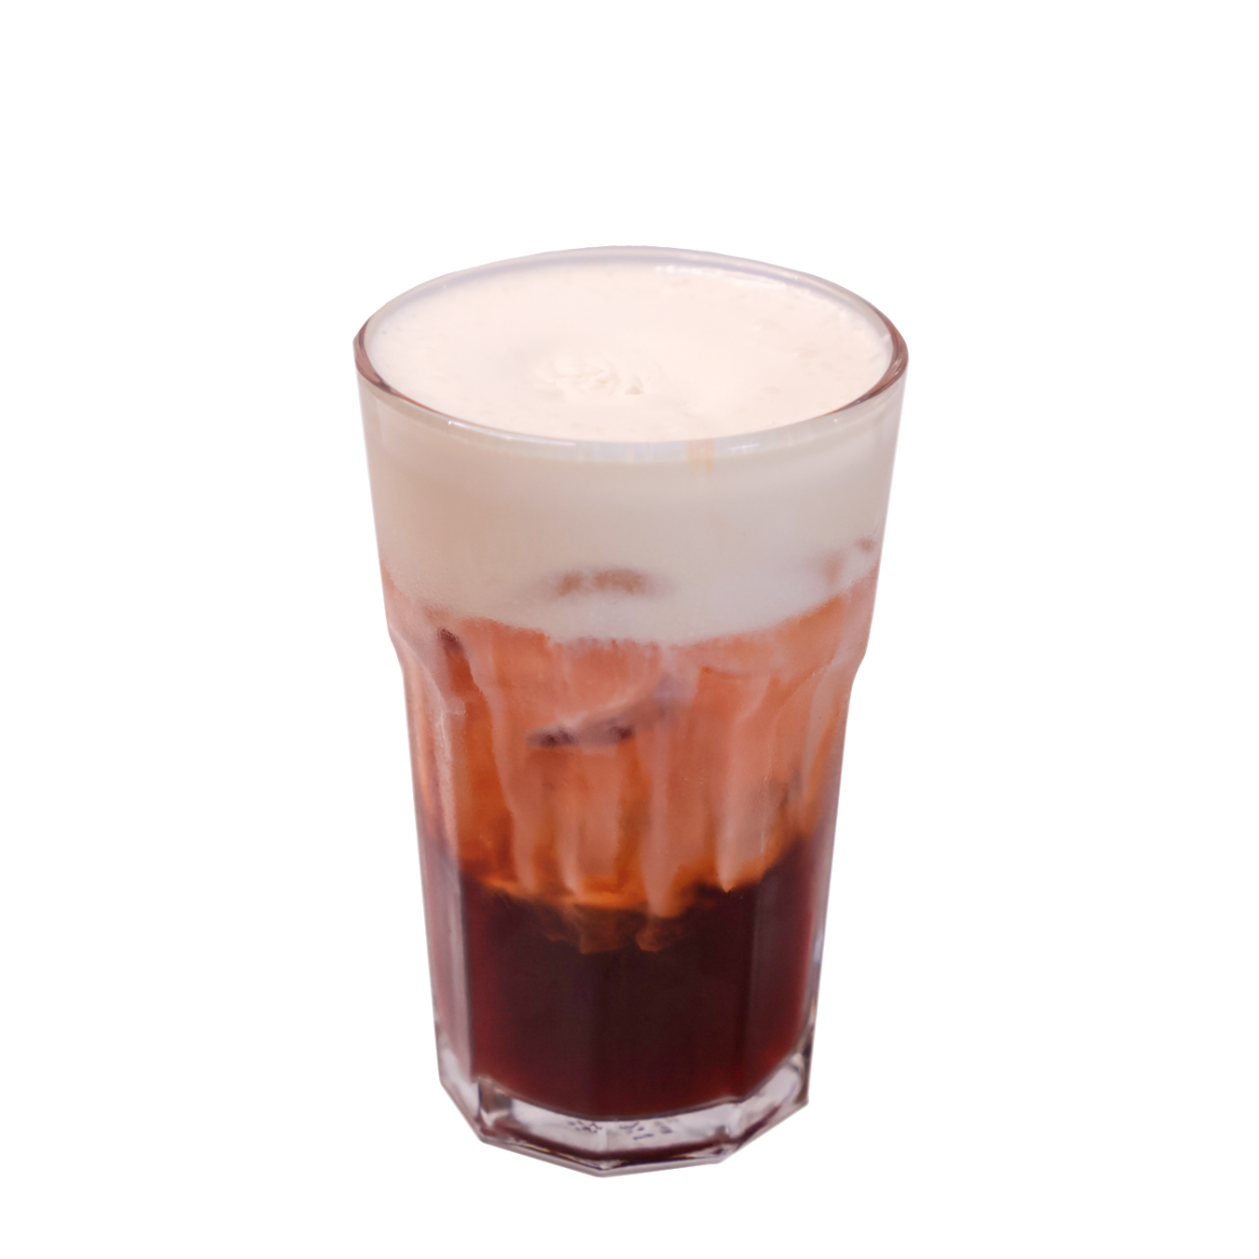
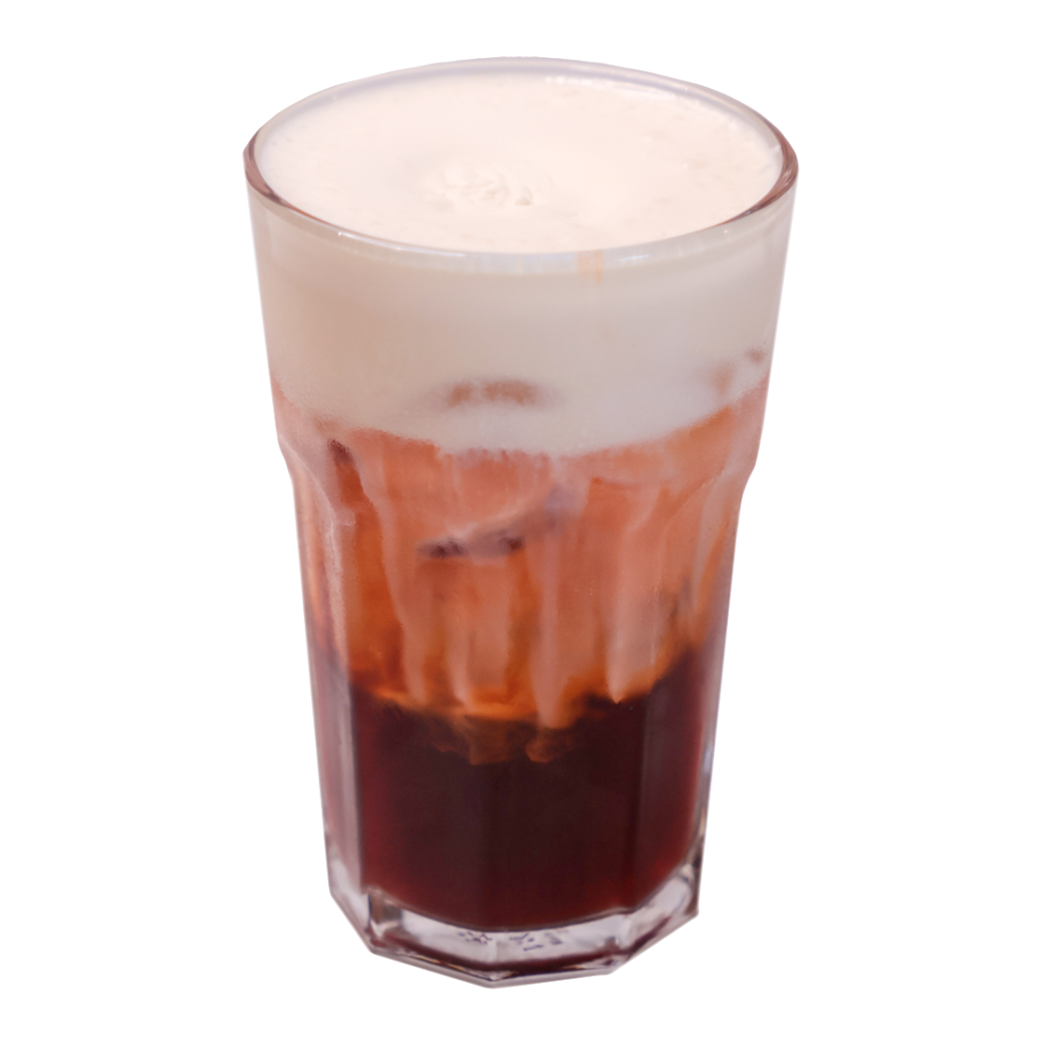
added drink images and shorten about us

Changed region(s): [[0.2133, 0.0305, 0.7619, 0.9448]]

diff --git a/src/app/menu/page.tsx b/src/app/menu/page.tsx
@@ -12,37 +12,37 @@ const menuSections = {
         name: 'đen đá [den-da]',
         description: 'classic black iced coffee',
         price: '$5.50',
-        image: 'https://static.vecteezy.com/system/resources/previews/041/924/414/non_2x/ai-generated-latte-in-coffee-cup-isolated-on-transparent-background-free-png.png',
+        image: 'images/denda.png',
       },
       {
         name: 'sữa đá [su-da]',
         description: 'classic Vietnamese iced coffee',
         price: '$6.00',
-        image: 'https://static.vecteezy.com/system/resources/previews/041/924/414/non_2x/ai-generated-latte-in-coffee-cup-isolated-on-transparent-background-free-png.png',
+        image: 'images/caphesuada.png',
       },
       {
         name: 'xíu [xiu]',
         description: 'mini sữa đá, Vietnamese "café latte"',
         price: '$6.00',
-        image: 'https://static.vecteezy.com/system/resources/previews/041/924/414/non_2x/ai-generated-latte-in-coffee-cup-isolated-on-transparent-background-free-png.png',
+        image: 'images/xiuvietnameselatte.png',
       },
       {
         name: 'muối [mui]',
         description: 'sea salt foam sữa đá',
         price: '$6.50',
-        image: 'https://static.vecteezy.com/system/resources/previews/041/924/414/non_2x/ai-generated-latte-in-coffee-cup-isolated-on-transparent-background-free-png.png',
+        image: 'images/duacoconutcreamfoamcoffee.png',
       },
       {
         name: 'khèe [kheeee]',
         description: 'crème brulee foam sữa đá',
         price: '$6.50',
-        image: 'https://static.vecteezy.com/system/resources/previews/041/924/414/non_2x/ai-generated-latte-in-coffee-cup-isolated-on-transparent-background-free-png.png',
+        image: 'images/kheeecremebrulevietcoffee.png',
       },
       {
         name: 'trứng [trung]',
         description: 'egg foam sữa đá',
         price: '$6.90',
-        image: 'https://static.vecteezy.com/system/resources/previews/041/924/414/non_2x/ai-generated-latte-in-coffee-cup-isolated-on-transparent-background-free-png.png',
+        image: 'images/trungeggcoffee.png',
       },
     ],
 
@@ -96,7 +96,7 @@ const menuSections = {
         name: 'sữa [w. condensed milk]',
         description: 'phin drip with condensed milk',
         price: '$5.00',
-        image: 'https://static.vecteezy.com/system/resources/previews/041/924/414/non_2x/ai-generated-latte-in-coffee-cup-isolated-on-transparent-background-free-png.png',
+        image: 'images/caphephin.png',
       },
     ],
 
@@ -144,7 +144,7 @@ const menuSections = {
     name: 'coco matcha cloud',
     description: 'matcha latte with coconut and cloud foam',
     price: '$6.50',
-    image: 'https://static.vecteezy.com/system/resources/previews/041/924/414/non_2x/ai-generated-latte-in-coffee-cup-isolated-on-transparent-background-free-png.png',
+    image: 'images/cocomatcha.png',
   },
 ],
 
@@ -171,7 +171,7 @@ const menuSections = {
     name: 'matcha latte',
     description: 'creamy green tea matcha latte',
     price: '$6.50',
-    image: 'https://static.vecteezy.com/system/resources/previews/041/924/414/non_2x/ai-generated-latte-in-coffee-cup-isolated-on-transparent-background-free-png.png',
+    image: 'images/matchalatte.png',
   },
   {
     name: 'strawberry matcha latte',
@@ -198,13 +198,13 @@ const menuSections = {
     name: 'ube espresso latte',
     description: 'ube-infused espresso latte',
     price: '$6.50',
-    image: 'https://static.vecteezy.com/system/resources/previews/041/924/414/non_2x/ai-generated-latte-in-coffee-cup-isolated-on-transparent-background-free-png.png',
+    image: 'images/ubeexpressolatte.png',
   },
   {
     name: 'pandan espresso latte',
     description: 'earthy pandan espresso latte',
     price: '$6.50',
-    image: 'https://static.vecteezy.com/system/resources/previews/041/924/414/non_2x/ai-generated-latte-in-coffee-cup-isolated-on-transparent-background-free-png.png',
+    image: 'images/pandanexpressolatte.png',
   },
   {
     name: 'nutella espresso latte',
@@ -222,7 +222,7 @@ const menuSections = {
     name: 'dalgona café latte',
     description: 'whipped dalgona-style latte',
     price: '$6.50',
-    image: 'https://static.vecteezy.com/system/resources/previews/041/924/414/non_2x/ai-generated-latte-in-coffee-cup-isolated-on-transparent-background-free-png.png',
+    image: 'images/dalgonacafelatte.png',
   },
   {
     name: 'caramel espresso latte',
@@ -239,7 +239,7 @@ const menuSections = {
         name: 'Banh Mi Sandwich',
         description: 'Traditional Vietnamese sandwich with pickled veggies and pork.',
         price: '$6.50',
-        image: 'https://static.vecteezy.com/system/resources/previews/041/924/414/non_2x/ai-generated-latte-in-coffee-cup-isolated-on-transparent-background-free-png.png',
+        image: 'images/mozarellapestobanhmi.png',
       },
     ],
     "Snacks": [
@@ -258,7 +258,7 @@ const menuSections = {
         name: 'Drip Cà Phê House Blend',
         description: 'Smooth and bold Vietnamese roast.',
         price: '$12.00 / bag',
-        image: 'https://static.vecteezy.com/system/resources/previews/041/924/414/non_2x/ai-generated-latte-in-coffee-cup-isolated-on-transparent-background-free-png.png',
+        image: 'images/coffeebean.png',
       },
     ],
     "Specialty": [
@@ -266,7 +266,7 @@ const menuSections = {
         name: 'Single-Origin Robusta',
         description: 'Strong, earthy notes with low acidity.',
         price: '$14.00 / bag',
-        image: 'https://cdn.discordapp.com/attachments/792939680366592040/1403919531126292562/Untitled89_20250809215451.png?ex=68994d73&is=6897fbf3&hm=b9c07a55d1745d60ac3770a04033f8ba74fb71fdf725ea468ecf3d7d34775f44&',
+        image: 'images/coffeebean.png',
       },
     ],
   },

diff --git a/src/app/page.tsx b/src/app/page.tsx
@@ -67,17 +67,7 @@ export default function Home() {
                 <p className={`${lato.className} mt-6 text-lg/8 text-gray-600`}>
                   DRiP Cà Phê - Espresso Bar is a modern Vietnamese American specialty coffee concept natively based in Northern Virginia (NOVA) focusing on delivering both traditional bold slow dripped black coffee “Đen Đá” and sweetened “Cà Phê Sữa Đá” with our blend of robusta beans, paying homage to Vietnam’s root of robusta coffee farm, DRiP Cà Phê is keeping it real! 
                 </p>
-                <p className={`${lato.className} mt-6 text-lg/8 text-gray-600`}>
-                  Along with Vietnamese coffee, classic Italian espresso menu is offered with many signature lattes flavors such as pandan and ube. Of course, traditional latte flavors & seasonal menu is always a hit!</p>
               </div>
-              <p className={`${lato.className} mt-6 text-lg/8 text-gray-600`}>
-                  DRiP Cà Phê displays a wide variety of classic Vietnamese delicacies such as Vietnamese organic sweetened yogurt with purple sticky rice, creamy caramelized flans.</p>
-              <p className={`${lato.className} mt-6 text-lg/8 text-gray-600`}>
-                  BahnMimi is DRiP’s spin on Banh Mi - Vietnamese Baguette filled with fresh veggies and meat but with a twist of a panini format, something not seen yet!</p>
-              <p className={`${lato.className} mt-6 text-lg/8 text-gray-600`}>
-                  Coffee, sip, chat and good vibes is what DRiP Cà Phê is all about. </p>
-              <p className={`${lato.className} mt-6 text-lg/8 text-gray-600`}>
-                  Come DRiP n Sip with us!</p>
             </div>
 
             {/* Image grid section */}
